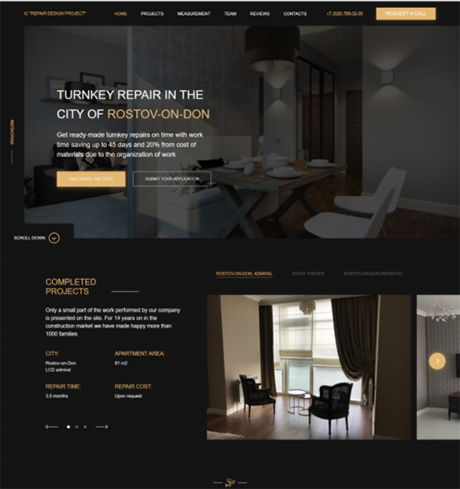
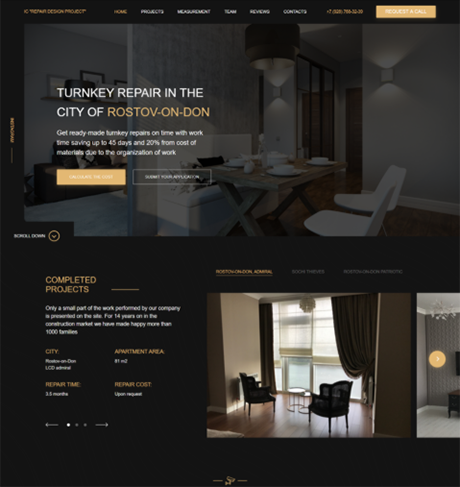
feat: add third slide with projects

diff --git a/css/style.css b/css/style.css
@@ -18,9 +18,9 @@ body {
     cursor: default;
 }
 
-.wrapper,   
-.swiper-wrapper,  
-.swiper-slide {
+#main-slider .wrapper,   
+#main-slider .swiper-wrapper,  
+#main-slider .swiper-slide {
     height: 100vh;
 }
 
@@ -70,7 +70,7 @@ body {
     text-decoration: none;
 }
 
-#main-slider .swiper-wrapper .swiper-slide .slide-first .switch {
+.switch {
   position: absolute;
   bottom: 20px;
   display: flex;
@@ -78,13 +78,13 @@ body {
   align-items: center;
 }
 
-#main-slider .swiper-wrapper .swiper-slide .slide-first .switch .switch-txt,
-#main-slider .swiper-wrapper .swiper-slide .slide-first .switch i {
+.switch .switch-txt,
+.switch i {
     color: #535353;
     font-size: 14px;
 }
 
-#main-slider .swiper-wrapper .swiper-slide .slide-first .switch .switch-txt {
+.switch .switch-txt {
     font-family: "GillSans-Light", sans-serif;
     margin-bottom: 5px;
 }
@@ -110,9 +110,10 @@ body {
   justify-content: center;
   flex-direction: column;
   height: 100%;
+  position: relative;
 }
 
-#main-slider .swiper-wrapper .swiper-slide .second-slide .title-block {
+.title-block {
     display: flex;
     align-items: center;
     justify-content: center;
@@ -121,7 +122,7 @@ body {
     border-top: 3px solid #535353;
 }
 
-#main-slider .swiper-wrapper .swiper-slide .second-slide .title-block  .second-title {
+.title-block  .second-title {
     color: #ffffff;
     font-size: 32px;
     font-family: "GillSans-Bold", sans-serif;
@@ -130,10 +131,11 @@ body {
     text-align: center;
 }
 
-#main-slider .swiper-wrapper .swiper-slide .second-slide .title-block  .fa-university {
+.title-block  .fa-university,
+.title-block .fa-desktop {
     color: #ffffff;
     font-size: 32px;
-    margin-right: 10px;
+    margin-right: 20px;
 }
 
 #main-slider .swiper-wrapper .swiper-slide .second-slide .title-block  .fa-angle-down {
@@ -198,4 +200,145 @@ body {
    color: #dad8d8;
    font-size: 22px;
    font-family: "GillSans-Light", sans-serif;
+}
+
+#main-slider .swiper-wrapper .swiper-slide .slide-third {
+    display: flex;
+    align-items: center;
+    justify-content: center;
+    flex-direction: column;
+    height: 100%;
+}
+
+#projects {
+    width: 90%;
+    margin-top: 50px;
+}
+
+#projects .wrapper,   
+#projects .swiper-wrapper,  
+#projects .swiper-slide {
+    height: auto;
+}
+
+#projects .project-layout {
+    display: flex;
+    justify-content: space-around;
+}
+
+#projects .project-layout .project-descr{
+    width: 40%;
+    position: relative;
+}
+
+#projects .project-layout .project-descr .title {
+    font-family: "GillSans-Bold", sans-serif;
+    color: #ffffff;
+    font-size: 24px;
+    letter-spacing: 1px;
+    border-bottom: 1px solid #3a3a3a;
+    padding-bottom: 20px;
+}
+
+#projects .project-layout .project-descr nav .menu-item {
+    list-style-type: circle;
+    color: #ffffff;
+    font-family: "GillSans-Light", sans-serif;
+    font-size: 22px;
+    padding: 10px auto;
+}
+
+#projects .project-layout .project-descr nav .menu-item .item {
+    margin-bottom: 10px;
+}
+
+#projects .project-layout .project-descr .slider-switch {
+    position: absolute;
+    bottom: 20px;
+    display: flex;
+    align-items: center;
+}
+  
+#projects .project-layout .project-descr .slider-switch .switch-txt,
+#projects .project-layout .project-descr .slider-switch i {
+    color: #535353;
+    font-size: 14px;
+}
+
+#projects .project-layout .project-descr .slider-switch .switch-txt {
+    font-family: "GillSans-Light", sans-serif;
+    margin:0 15px;
+}
+
+#projects .project-layout .project-image {
+    width: 35%;
+    padding-top: 40%;
+    background: no-repeat 50% / cover;
+    cursor: pointer;
+    transition: 0.3s ease-in;
+    position: relative;
+}
+
+#projects .project-layout .project-image  a {
+    position: absolute;
+    top: 0;
+    width: 100%;
+    height: 100%;
+}
+
+#projects .project-layout .project-image:hover {
+    filter: brightness(50%);
+}
+
+.swiper-button-next,
+.swiper-button-prev {
+  background-image: none;
+}
+
+.swiper-button-next i,
+.swiper-button-prev i {
+    color: #ffffff;
+    font-size: 40px;
+}
+
+@media(max-width: 767.98px) {
+    #projects .project-layout {
+        flex-direction: column;
+        align-items: center;
+    }
+    
+    #projects .project-layout .project-descr{
+        width: 80%;
+        position: relative;
+    }
+    
+    #projects .project-layout .project-descr .title {
+        font-family: "GillSans-Bold", sans-serif;
+        color: #ffffff;
+        font-size: 24px;
+        letter-spacing: 1px;
+        border-bottom: 1px solid #3a3a3a;
+        padding-bottom: 20px;
+    }
+    
+    #projects .project-layout .project-descr nav .menu-item {
+        list-style-type: circle;
+        color: #ffffff;
+        font-family: "GillSans-Light", sans-serif;
+        font-size: 22px;
+        padding: 10px auto;
+    }
+    
+    #projects .project-layout .project-descr nav .menu-item .item {
+        margin-bottom: 10px;
+    }
+    
+    #projects .project-layout .project-descr .slider-switch {
+        display: none;
+    }
+    
+    .swiper-button-next,
+    .swiper-button-prev {
+      display: none;
+    }
 }

diff --git a/index.html b/index.html
@@ -73,9 +73,65 @@
                                 </div>
                             </div>
                         </div>
+                        <div class="switch">
+                            <p class="switch-txt">swipe to see my projects</p>           
+                            <i class="fal fa-chevron-double-down"></i>
+                        </div>
                     </div>
                 </div>
-                <div class="swiper-slide">Slide 3</div>
+                <div class="swiper-slide">
+                    <div class="slide-third">
+                        <div class="title-block">
+                            <i class="fal fa-desktop"></i>
+                            <p class="second-title">Projects</p>
+                        </div> 
+                        <div class="swiper-container" id="projects">
+                            <div class="swiper-wrapper">
+                                <div class="swiper-slide">
+                                    <div class="project-layout">
+                                      <div class="project-descr">
+                                          <p class="title">Theyalow</p>
+                                          <nav>
+                                              <ul class="menu-item">
+                                                  <li class="item">Use Pixel Perfect extension</li>
+                                                  <li class="item">Responsive</li>
+                                              </ul>
+                                          </nav>
+                                          <div class="slider-switch">
+                                            <p class="switch-txt">click on image to see the project</p>           
+                                            <i class="fal fa-chevron-double-right"></i>   
+                                          </div>
+                                      </div>
+                                      <div class="project-image" style="background-image:url(assets/images/theyalow.png)">
+                                          <a href="#"></a>
+                                      </div>
+                                    </div>
+                                </div>
+                                <div class="swiper-slide">
+                                    <div class="project-layout">
+                                        <div class="project-descr">
+                                            <p class="title">Repair Design Project</p>
+                                            <nav>
+                                                <ul class="menu-item">
+                                                    <li class="item">Responsive</li>
+                                                    <li class="item">Use Flexbox</li>
+                                                </ul>
+                                            </nav>
+                                            <div class="slider-switch">
+                                                <p class="switch-txt">click on image to see the project</p>           
+                                                <i class="fal fa-chevron-double-right"></i>   
+                                            </div>
+                                        </div>
+                                        <div class="project-image" style="background-image:url(assets/images/repair.png)">
+                                            <a href="#"></a></div>
+                                    </div>
+                                </div>
+                            </div>
+                            <div class="swiper-button-next"><i class="fal fa-chevron-double-right"></i></div>
+                            <div class="swiper-button-prev"><i class="fal fa-chevron-double-left"></i></div>
+                        </div>                            
+                    </div>
+                </div>
                 </div>
                 <div class="swiper-pagination"></div>
             </div>

diff --git a/js/index.js b/js/index.js
@@ -13,7 +13,20 @@ const mainSlider = new Swiper('#main-slider', {
   },
 });
 
+//Education
+
 document.getElementById('click-block').onclick = function() {
   document.getElementById('click-block').classList.toggle('active');
   document.getElementById('result').classList.toggle('slide-descr-active');
 }
+
+//Projects
+
+var swiper = new Swiper('#projects', {
+  slidesPerView: 1,
+  mousewheel: true,
+  navigation: {
+    nextEl: '.swiper-button-next',
+    prevEl: '.swiper-button-prev',
+  },
+});
